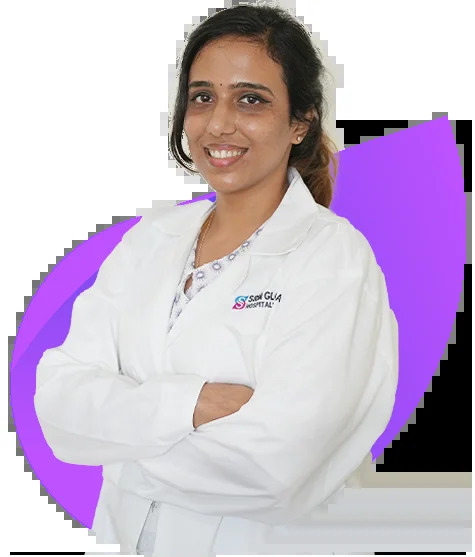
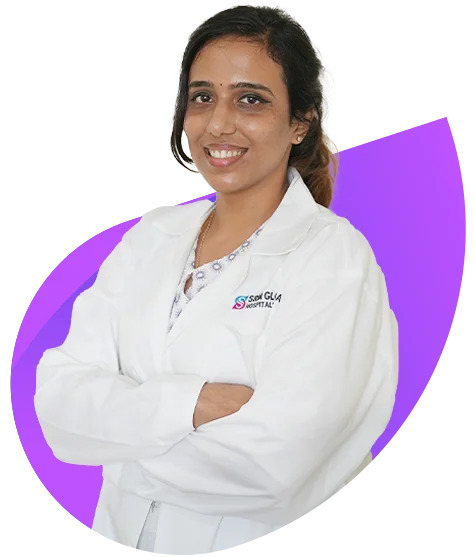
Update Anaesthesiology department page and doctor assets

diff --git a/src/app/best-doctor/anaesthesiology/page.tsx b/src/app/best-doctor/anaesthesiology/page.tsx
@@ -11,15 +11,15 @@ export const metadata = createMetadata({
 });
 
 const DOCTORS = [
-  { initials: "VC", name: "Dr. Varun. C",           role: "Senior Consultant", quals: "MBBS, MD",      color: "#8b3dff", bg: "linear-gradient(135deg, #f3ebff, #e4cffe)", image: "/images/best-doctor/Anaesthesiology/dr-varun-c.jpg" },
-  { initials: "K",  name: "Dr. Ksheerabdhi",        role: "Consultant",        quals: "MBBS, MD",      color: "#1fb6e0", bg: "linear-gradient(135deg, #e7f8fc, #c9edf8)", image: "/images/best-doctor/Anaesthesiology/dr-ksheerabdhi.jpg" },
-  { initials: "SR", name: "Dr. Shanmitha R",        role: "Consultant",        quals: "MBBS, MD",      color: "#8b3dff", bg: "linear-gradient(135deg, #f3ebff, #e4cffe)", image: "/images/best-doctor/Anaesthesiology/dr-shanmitha-r.jpg" },
-  { initials: "KA", name: "Dr. K.Y. Aravindhan",   role: "Consultant",        quals: "MBBS, MD",      color: "#1fb6e0", bg: "linear-gradient(135deg, #e7f8fc, #c9edf8)", image: "/images/best-doctor/Anaesthesiology/dr-ky-aravindhan.jpg" },
-  { initials: "SK", name: "Dr. Satheesh Kumar. R", role: "Consultant",        quals: "MBBS, MD",      color: "#8b3dff", bg: "linear-gradient(135deg, #f3ebff, #e4cffe)", image: "/images/best-doctor/Anaesthesiology/dr-satheesh-kumar-r.jpg" },
-  { initials: "SC", name: "Dr. Saravanan. C. R",   role: "Consultant",        quals: "MBBS, MD, DNB", color: "#1fb6e0", bg: "linear-gradient(135deg, #e7f8fc, #c9edf8)", image: "/images/best-doctor/Anaesthesiology/dr-saravanan-cr.jpg" },
-  { initials: "KK", name: "Dr. Karthik. K",         role: "Consultant",        quals: "MBBS, MD",      color: "#8b3dff", bg: "linear-gradient(135deg, #f3ebff, #e4cffe)", image: "/images/best-doctor/Anaesthesiology/dr-karthik-k.jpg" },
-  { initials: "TT", name: "Dr. Teena Thomas",       role: "Consultant",        quals: "MBBS, MD, DNB", color: "#1fb6e0", bg: "linear-gradient(135deg, #e7f8fc, #c9edf8)", image: "/images/best-doctor/Anaesthesiology/dr-teena-thomas.jpg" },
-  { initials: "AS", name: "Dr. Ajay Sankar. G. R", role: "Consultant",        quals: "MBBS, MD, FNB", color: "#8b3dff", bg: "linear-gradient(135deg, #f3ebff, #e4cffe)", image: "/images/best-doctor/Anaesthesiology/dr-ajay-sankar-gr.jpg" },
+  { initials: "VC", name: "Dr. Varun. C", role: "Senior Consultant", quals: "MBBS, MD", color: "#8b3dff", bg: "linear-gradient(135deg, #f3ebff, #e4cffe)", image: "/images/best-doctor/Anaesthesiology/dr-varun-c.jpg" },
+  { initials: "K", name: "Dr. Ksheerabdhi", role: "Consultant", quals: "MBBS, MD", color: "#1fb6e0", bg: "linear-gradient(135deg, #e7f8fc, #c9edf8)", image: "/images/best-doctor/Anaesthesiology/dr-ksheerabdhi.jpg" },
+  { initials: "SR", name: "Dr. Shanmitha R", role: "Consultant", quals: "MBBS, MD", color: "#8b3dff", bg: "linear-gradient(135deg, #f3ebff, #e4cffe)", image: "/images/best-doctor/Anaesthesiology/dr-shanmitha-r.jpg" },
+  { initials: "KA", name: "Dr. K.Y. Aravindhan", role: "Consultant", quals: "MBBS, MD", color: "#1fb6e0", bg: "linear-gradient(135deg, #e7f8fc, #c9edf8)", image: "/images/best-doctor/Anaesthesiology/Dr.-Aravindhan.jpg" },
+  { initials: "SK", name: "Dr. Satheesh Kumar. R", role: "Consultant", quals: "MBBS, MD", color: "#8b3dff", bg: "linear-gradient(135deg, #f3ebff, #e4cffe)", image: "/images/best-doctor/Anaesthesiology/dr-satheesh-kumar-r.jpg" },
+  { initials: "SC", name: "Dr. Saravanan. C. R", role: "Consultant", quals: "MBBS, MD, DNB", color: "#1fb6e0", bg: "linear-gradient(135deg, #e7f8fc, #c9edf8)", image: "/images/best-doctor/Anaesthesiology/dr-saravanan-cr.jpg" },
+  { initials: "KK", name: "Dr. Karthik. K", role: "Consultant", quals: "MBBS, MD", color: "#8b3dff", bg: "linear-gradient(135deg, #f3ebff, #e4cffe)", image: "/images/best-doctor/Anaesthesiology/dr-Karthik-k.jpg" },
+  { initials: "TT", name: "Dr. Teena Thomas", role: "Consultant", quals: "MBBS, MD, DNB", color: "#1fb6e0", bg: "linear-gradient(135deg, #e7f8fc, #c9edf8)", image: "/images/best-doctor/Anaesthesiology/Dr.Teena.jpg" },
+  { initials: "AS", name: "Dr. Ajay Sankar. G. R", role: "Consultant", quals: "MBBS, MD, FNB", color: "#8b3dff", bg: "linear-gradient(135deg, #f3ebff, #e4cffe)", image: "/images/best-doctor/Anaesthesiology/Ajay-Sankar.jpg" },
 ];
 
 export default function AnaesthesiologyPage() {
@@ -76,10 +76,10 @@ export default function AnaesthesiologyPage() {
             </div>
             <div style={{ display: "grid", gridTemplateColumns: "1fr 1fr", gap: "16px" }}>
               {[
-                { value: "9",    label: "Specialists",           color: "#8b3dff" },
-                { value: "24/7", label: "Availability",          color: "#1fb6e0" },
-                { value: "All",  label: "Surgical Disciplines",  color: "#8b3dff" },
-                { value: "ICU",  label: "Critical Care Support", color: "#1fb6e0" },
+                { value: "9", label: "Specialists", color: "#8b3dff" },
+                { value: "24/7", label: "Availability", color: "#1fb6e0" },
+                { value: "All", label: "Surgical Disciplines", color: "#8b3dff" },
+                { value: "ICU", label: "Critical Care Support", color: "#1fb6e0" },
               ].map((stat) => (
                 <div key={stat.label} style={{ background: "#fff", borderRadius: "14px", padding: "24px 20px", border: "1px solid rgba(0,0,0,0.05)", textAlign: "center" }}>
                   <div style={{ fontFamily: "Poppins, sans-serif", fontSize: "28px", fontWeight: 700, color: stat.color }}>{stat.value}</div>
